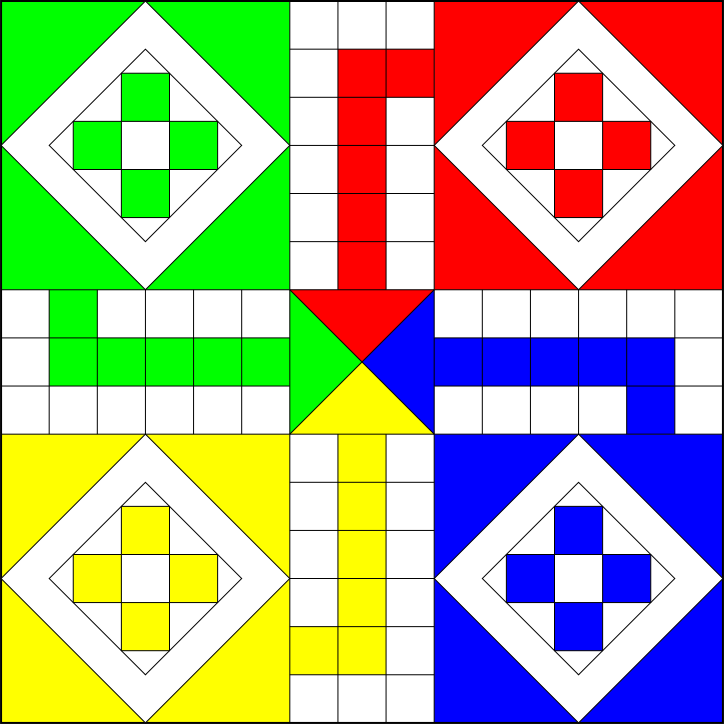
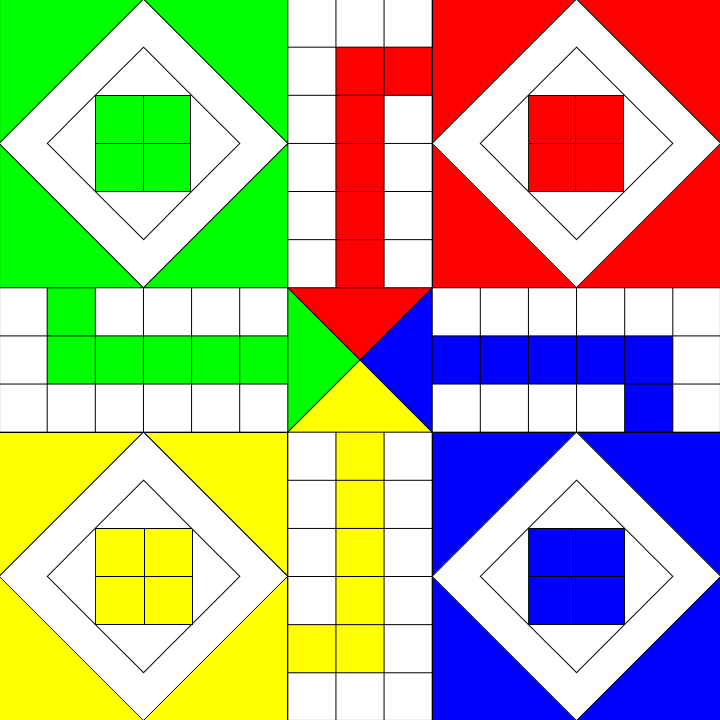
Grafiken verbessert und Spawns angepasst

diff --git a/src/main/java/ludo/GUI.java b/src/main/java/ludo/GUI.java
@@ -70,7 +70,7 @@ public class GUI extends GUIState {
 
     public void init(Controller c) {
         super.init(c);
-        display = new Display2D(724,724,this);
+        display = new Display2D(720,720,this);
         display.setClipping(false);
 
         displayFrame = display.createFrame();
